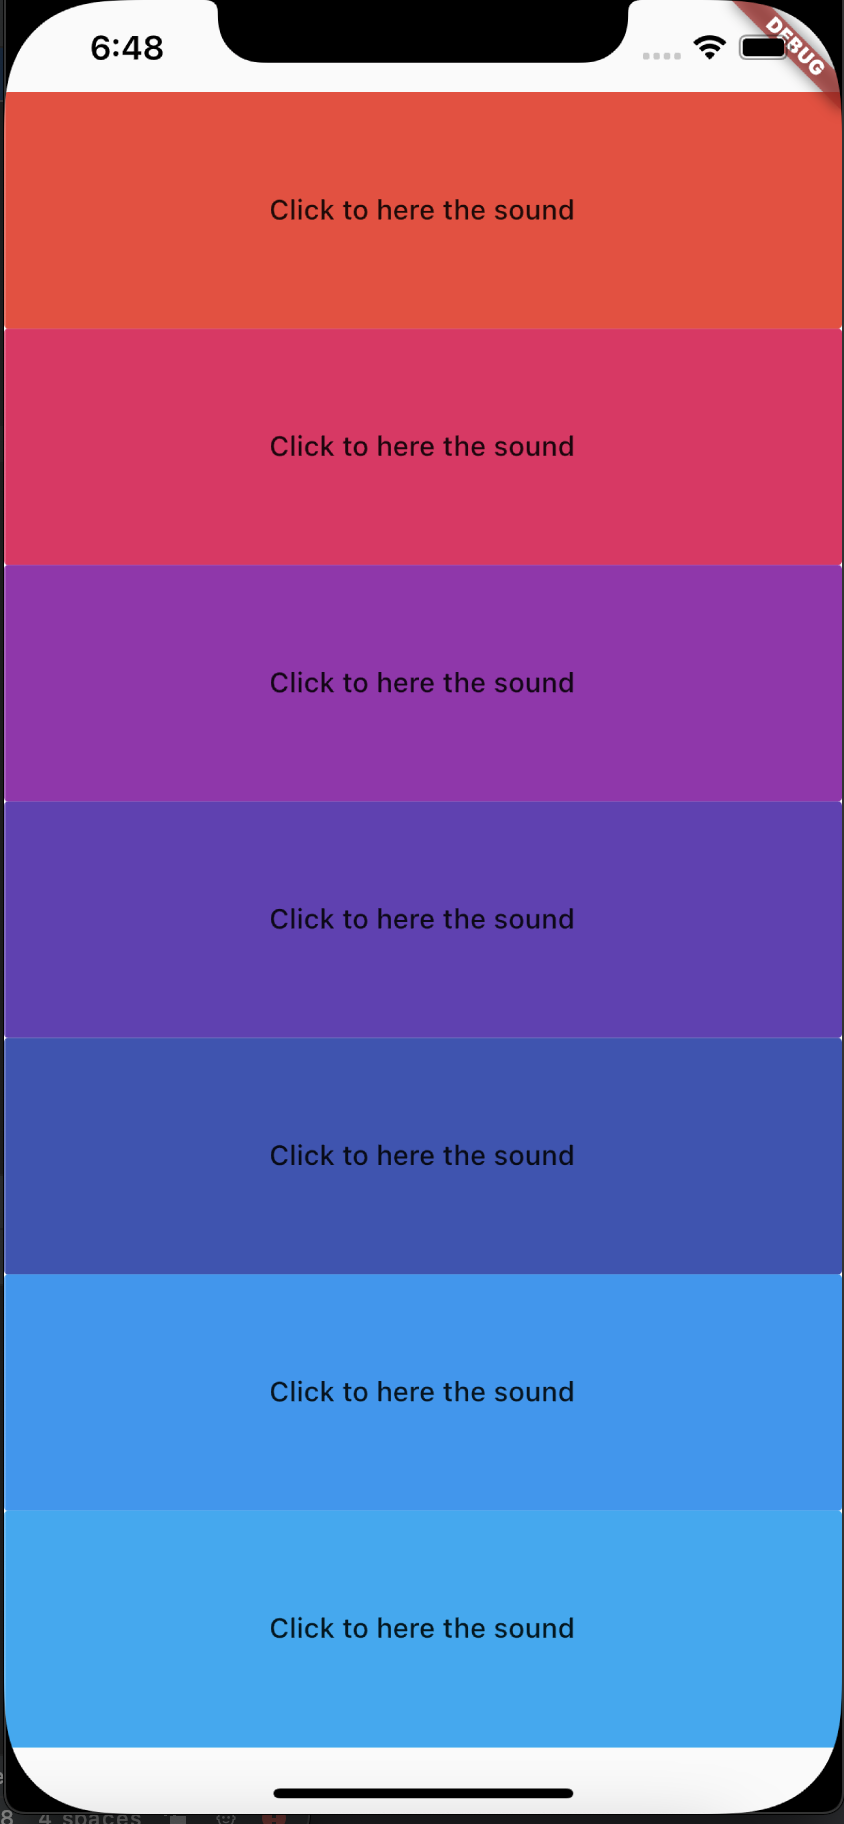
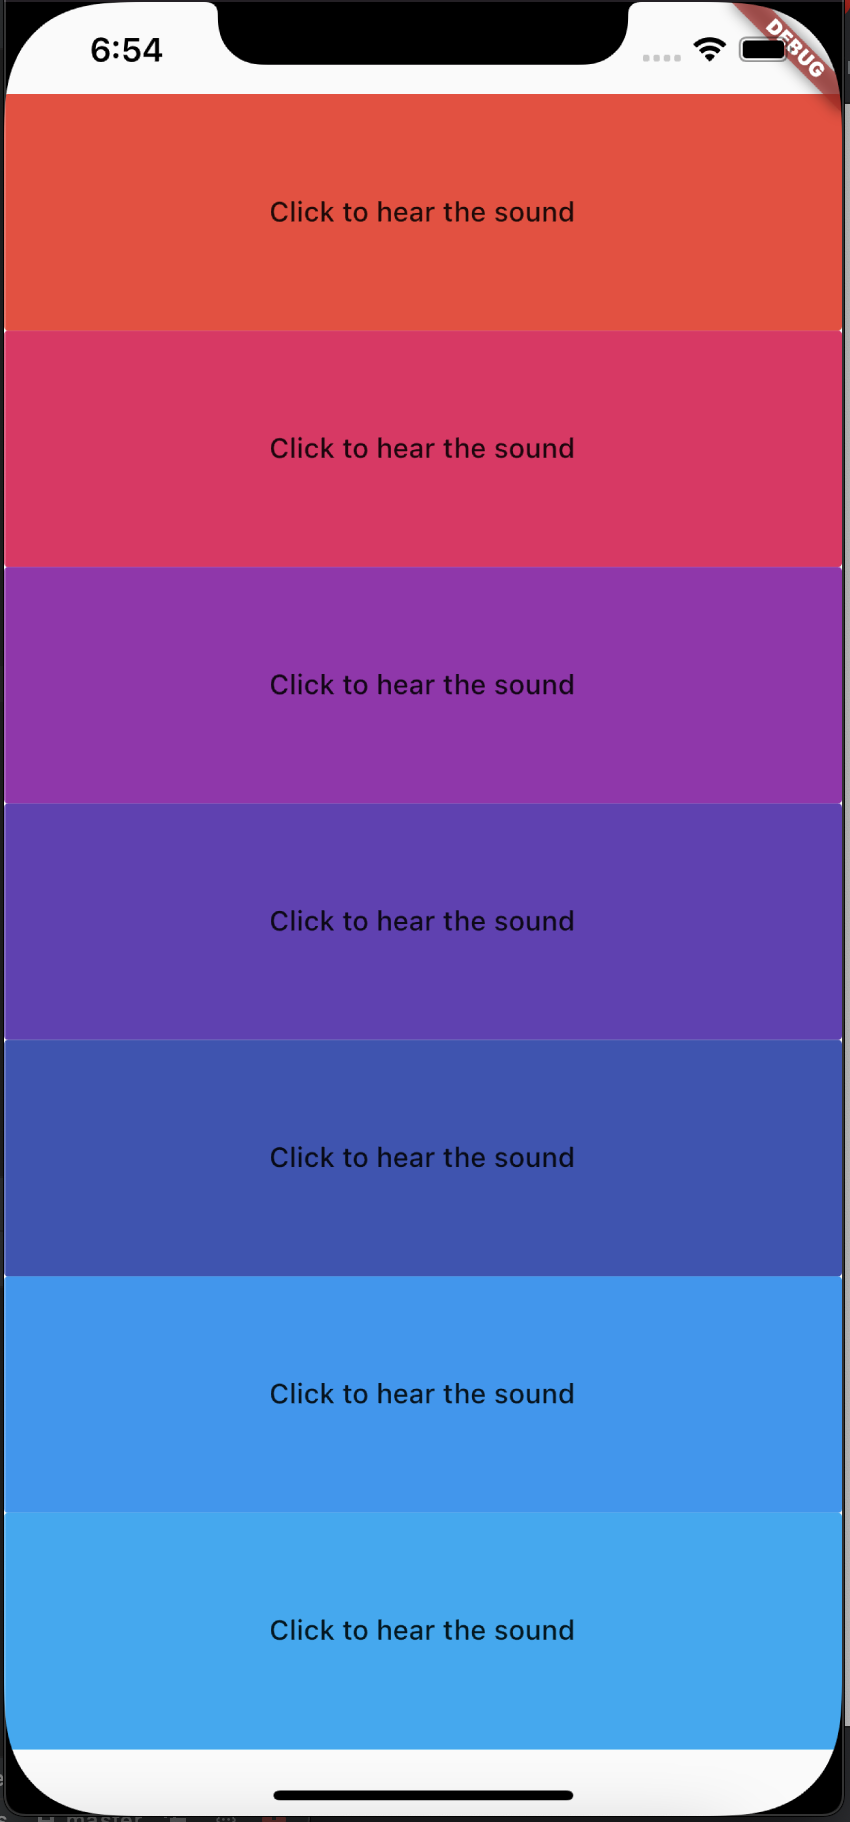
Typo

diff --git a/lib/main.dart b/lib/main.dart
@@ -16,7 +16,7 @@ class MyApp extends StatelessWidget {
     return Expanded(
       child: FlatButton(
         color: color,
-        child: Text('Click here to hear the sound'),
+        child: Text('Click to hear the sound'),
         onPressed: () {
           playSound(soundNumber);
         },
